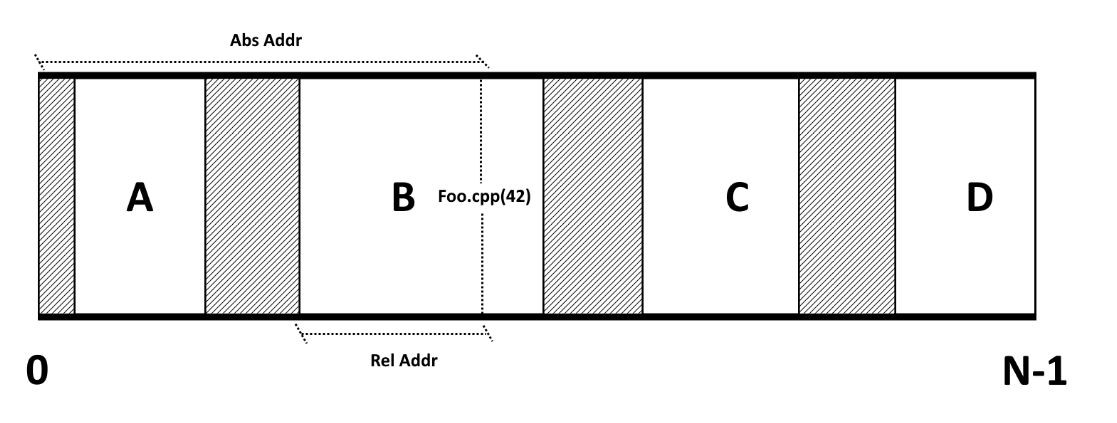
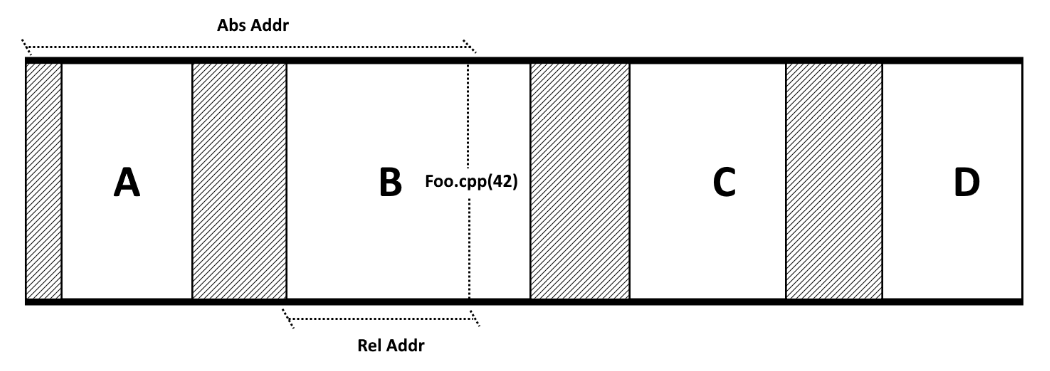
Updated README

Changed region(s): [[0.0, 0.0593, 0.9752, 0.9191], [0.3352, 0.9191, 0.4267, 0.9488], [0.2743, 0.8598, 0.3048, 0.8895]]

diff --git a/README.md b/README.md
@@ -30,15 +30,19 @@ From a technical standpoint, interpreting the Call Stack externally is more comp
 
 When we capture a snapshot of the call stack, we are left with a series of memory addresses that point to different parts of our program code. In order to understand what these addresses correspond to, we need to understand how a process is organized in memory.
 
-In Windows, a process is made up of one or more [modules](https://learn.microsoft.com/en-us/windows/win32/psapi/module-information), which are typically represented by *.exe* or *.dll* files. Each module is loaded into a specific memory range, and every memory address in the call stack belongs to one of these memory ranges.
+A process is made up of several modules, which are also known as shared libraries or dynamic-link libraries. These modules contain code and data that are used by the process, and are mapped into the process's virtual memory space at a specific range. In Windows modules are typically represented by *.exe* or *.dll* files. Every memory address in our call stack belongs to one of these memory ranges.
 
 For example, imagine a process with four modules: **A**, **B**, **C**, and **D**. In the picture below, we show the process memory space range and each module as a white box.
 
-![](pics/pic1.png)
+<img align="left" src="pics/pic5.png">
 
-Notice that there are gaps between modules. This is because modules can be loaded and unloaded dynamically. If we inspect the application modules offline, we will see a different module layout in memory than when the recording took place.
+<img align="right" src="pics/timeline.png">
 
-To solve this problem, we need to store the relative addresses of the memory addresses in the call stack. This allows us to understand which module a memory address belongs to, and subsequently, which file and line it corresponds to.
+The modules within a process may not be arranged in sequential memory locations, as indicated by the gaps between modules in the diagram. This is due to the dynamic nature of the modules; for instance, a module like **B** can be unloaded and replaced with another module **B'** that partially overlaps the same memory range. What is more, module **B** could be loaded and unloaded multiple times and there is no guarantee that it will be loaded at the same memory addresses.
+
+This highlights the fact that we cannot rely on absolute addresses and must instead use relative addresses and timing when tracking events.
+
+<br clear="right"/>
 
 ## The "legacy" way
 
@@ -52,13 +56,13 @@ In both cases, we need to use functions from the [*DbgHelp*](https://learn.micro
 
 ## The “new” approach
 
-Our new approach is very simple and utilizes a separate **host** and **viewer** application. The host application tracks changes in the process modules and captures raw *Call Stacks*, while the viewer application interprets the collected data.
+Our new approach is straightforward and employs a distinct **host** and **viewer** application. The host application monitors changes in the process modules and records raw *Call Stacks*, while the viewer application interprets the gathered data. Our goal is to minimize intrusion, thus keeping the performance impact on the **host** to a minimum.
 
-## The host
+## The Host
 
 Before we can capture any call stacks, the host application must first undertake two important steps: (i) **begin monitoring** the load and unload events of modules, and (ii) take a snapshot of the **currently loaded modules**. Starting with module monitoring is crucial as modules can be loaded from different threads. If the snapshot were taken first, there would be a risk of losing important information. By beginning with module monitoring, the host application can ensure that it captures all relevant data.
 
-We have created a class named *recorder_t* which includes all necessary functionality for tracking modules, taking snapshots, and capturing call stacks. Inside this class, the function responsible for executing these two steps is called *bootstrap* and can be found in the file *callstack-recorder-windows.cpp*.
+We have created a class named *recorder_t* which includes all necessary functionality for tracking modules, taking snapshots, and capturing call stacks. Inside this class, the function responsible for executing these two steps is called *bootstrap* and can be found in the file *callstack-recorder.cpp*.
 
 ```c++
 void qcstudio::callstack::recorder_t::bootstrap() {
@@ -78,7 +82,7 @@ void qcstudio::callstack::recorder_t::bootstrap() {
 }
 ```
 
-This function is crucial as it allows for lazy initialization of the recorder which is necessary to avoid the C++ [Static Initialization Order Fiasco](https://en.cppreference.com/w/cpp/language/siof). This function is called on every call to the *capture* function, ensuring that the recorder is properly initialized before being used.
+This function is crucial as it allows for lazy initialization of the recorder which is necessary to avoid the C++ [Static Initialization Order Fiasco](https://en.cppreference.com/w/cpp/language/siof). This function is invoked every time we call the *capture* function, ensuring that the recorder is properly initialized before being used.
 
 Inside the *bootstrap* function, there are the *start_tracking_modules* and *enum_modules* functions that correspond to steps (i) and (ii) mentioned earlier. The *start_tracking_modules* function is responsible for monitoring the loading and unloading of modules, and the *enum_modules* function is responsible for capturing a snapshot of the currently loaded modules.
 
@@ -149,11 +153,9 @@ Note that the first parameter in the call to *RtlCaptureStackBackTrace* is set t
 
 In our example recorder, we are saving all the recorded information in a buffer, which will be written to a file at a later time, and read by the viewer application.
 
+## The Viewer
 
-
-## Viewer design
-
-
+The viewer must utilise all the information gathered from the **host** to reconstruct the precise conditions in which the *Call Stack* was recorded. Only in that way we will be able to reconstruct the symbols. So, basically, is like if we would replay the series of events 
 
 
 
@@ -165,6 +167,10 @@ For (1) timestamping we can use the standard C++ [Chrono](https://en.cppreferenc
 ## Other OS
 
 asd
+
+In linux there is no notification per se
+
+we can watch /proc/pid/maps where it is decribed each dynamic library memory regions
 
 ## Conclusions
 
